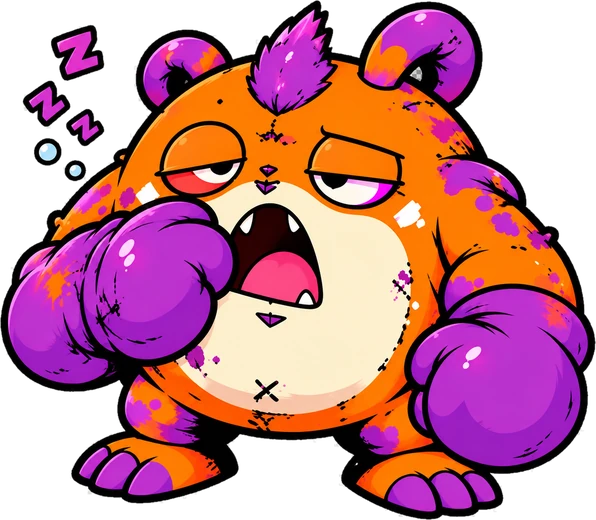
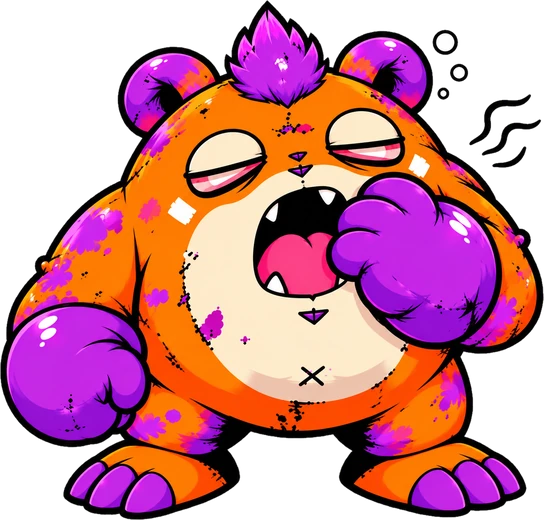
BUNK: new sleepy (yawn) pose; stretch keeps the old art by the planner's choice
Claude-Session: https://claude.ai/code/session_01MXithgTc5umkveoyZShZHQ

diff --git a/design/bunk/poses/make_poses.py b/design/bunk/poses/make_poses.py
@@ -21,7 +21,7 @@ HEIGHT = 520
 
 
 # 2026-10-21 からの新しい絵(チェック柄が明るい灰色と白)。remove_checker_v2 で切り抜く
-NEW_ART = {'hungry', 'look', 'sit', 'sleep'}
+NEW_ART = {'hungry', 'look', 'sit', 'sleep', 'sleepy'}
 
 
 def remove_checker_v2(im: Image.Image) -> Image.Image:

diff --git a/design/bunk/README.md b/design/bunk/README.md
@@ -8,7 +8,7 @@
 - 腕を下ろした姿（ふつう）も新しい絵 `reference/bunk_down_v2.png` にした（2026-10-21）。正面を向いているので、顔ではなく足元で位置をそろえた（(14,16) ずらす）。パーツ分けは `reference/pose_down/split.json`（目のパーツも入れて、反転したときの目の位置に使う）。
 - 表情の顔（新しい絵）は `tools/build_bunk_faces_v2.py design/bunk/reference/pose_down/faces_v2.json` で作る。表情の絵は ふつうの絵と少しだけ大きさ・位置がちがうので、線が重なるように合わせてから、ちがう所（顔）だけ切り出す。
   - 2026-10-21：目を閉じた顔（`pose_down/v2_closed.png`）・怒った顔（`v2_angry.png`）・悲しい顔（`v2_sad.png`）・喜んだ顔（`v2_happy.png`）。表情は4つそろった。届いた表情から `faces_v2.json` の faces と `bunkMotion.json` の faces.names に足す。
-  - 新しい表情の顔は腕を下ろした姿（正面）に合わせているので、構えた姿ではまばたきしない。反応の顔を出すときは腕を下ろした姿になる（`facesOnlyDown`）。お世話画面の6つの姿は、とどくまで前の絵のまま。とどいた姿は `design/bunk/poses/<名前>.png` に置いて `python3 design/bunk/poses/make_poses.py <名前>` で作り直す（前の絵は `<名前>_v1.png`）。新しい絵は `NEW_ART` に入れる（明るいチェック柄の消し方）。2026-10-21：おなかすいた（hungry）・見回す（look）・おすわり（sit）・寝る（sleep）。
+  - 新しい表情の顔は腕を下ろした姿（正面）に合わせているので、構えた姿ではまばたきしない。反応の顔を出すときは腕を下ろした姿になる（`facesOnlyDown`）。お世話画面の6つの姿は、とどくまで前の絵のまま。とどいた姿は `design/bunk/poses/<名前>.png` に置いて `python3 design/bunk/poses/make_poses.py <名前>` で作り直す（前の絵は `<名前>_v1.png`）。新しい絵は `NEW_ART` に入れる（明るいチェック柄の消し方）。2026-10-21：おなかすいた（hungry）・見回す（look）・おすわり（sit）・寝る（sleep）・ねむい（sleepy）。のび（stretch）は企画者の判断で前の絵のまま。
 
 以下は前の絵のときの記録。
 
